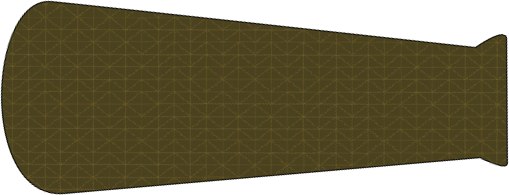
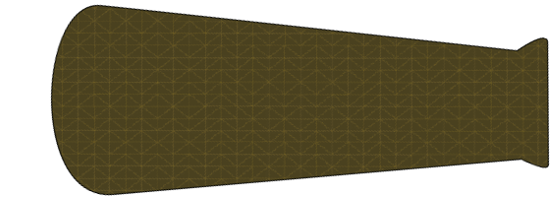
Canon rotates with mouse move

diff --git a/Spiderdungeon/Classes/GameScene.cpp b/Spiderdungeon/Classes/GameScene.cpp
@@ -55,11 +55,13 @@ bool GameScene::init()
     //create Canon
     auto canonBody = Sprite::create("Kanone/Kanone_Körper.png");
     canonBody->setScale(0.2);
-    canonBody->setPosition(Point(origin.x + 70, origin.y + 50));
+    canonBody->setAnchorPoint(Point(0.5, 0));
+    canonBody->setPosition(Point(origin.x + 70, origin.y + 40));
     this->addChild(canonBody, 3);
     auto canonStick = Sprite::create("Kanone/Kanonen_Stab.png");
     canonStick->setScale(0.2);
-    canonStick->setPosition(Point(origin.x + 65, origin.y + 50));
+    canonStick->setAnchorPoint(Point(0.5, 0));
+    canonStick->setPosition(Point(origin.x + 70, origin.y + 40));
     this->addChild(canonStick, 2);
     auto canonWheel = Sprite::create("Kanone/Kanonen_Rad.png");
     canonWheel->setScale(0.2);
@@ -68,7 +70,7 @@ bool GameScene::init()
     
     auto clicklistener = EventListenerMouse::create();
     clicklistener->onMouseDown = CC_CALLBACK_1(GameScene::mouseClicked, this);
-    clicklistener->onMouseMove = CC_CALLBACK_1(GameScene::mouseDragged, this);
+    clicklistener->onMouseMove = CC_CALLBACK_1(GameScene::mouseDragged, this, canonStick, canonBody);
     clicklistener->onMouseUp = CC_CALLBACK_1(GameScene::mouseReleased, this);
     
     _eventDispatcher->addEventListenerWithSceneGraphPriority(clicklistener, this);
@@ -97,21 +99,19 @@ void GameScene::mouseClicked(Event* event)
     clickPositionY = e->getCursorY();
 }
 
-void GameScene::mouseDragged(Event* event)
+void GameScene::mouseDragged(Event* event, Sprite* canonStick, Sprite* canonBody)
 {
     EventMouse* e = (EventMouse*)event;
     if (mouseDown) {
         float deltaX = clickPositionX - e->getCursorX();
         float deltaY = clickPositionY - e->getCursorY();
         distance = sqrt(pow(deltaX, 2) + pow(deltaY, 2));
-        cout << "Distance: ";
-        cout << distance;
         
         float pi = acos(-1);
         angle = atan(deltaY / deltaX) * 180 / pi;
-        cout << " Angle: ";
-        cout << angle;
-        cout << "\n";
+            
+        canonBody->setRotation(-angle);
+        canonStick->setRotation(-angle);
         
     }
 }

diff --git a/Spiderdungeon/Classes/GameScene.h b/Spiderdungeon/Classes/GameScene.h
@@ -16,13 +16,13 @@ public:
     private: float clickPositionY;
     private: float distance;
     private: float angle;
-    
+        
     // a selector callback
     void pauseGame(cocos2d::Ref* sender);
     void goToMainMenuScene(cocos2d::Ref* sender);
     
     void mouseClicked(cocos2d::Event* event);
-    void mouseDragged(cocos2d::Event* event);
+    void mouseDragged(cocos2d::Event* event, cocos2d::Sprite* canonBody, cocos2d::Sprite* canonStick);
     void mouseReleased(cocos2d::Event* event);
     
     // implement the "static create()" method manually
